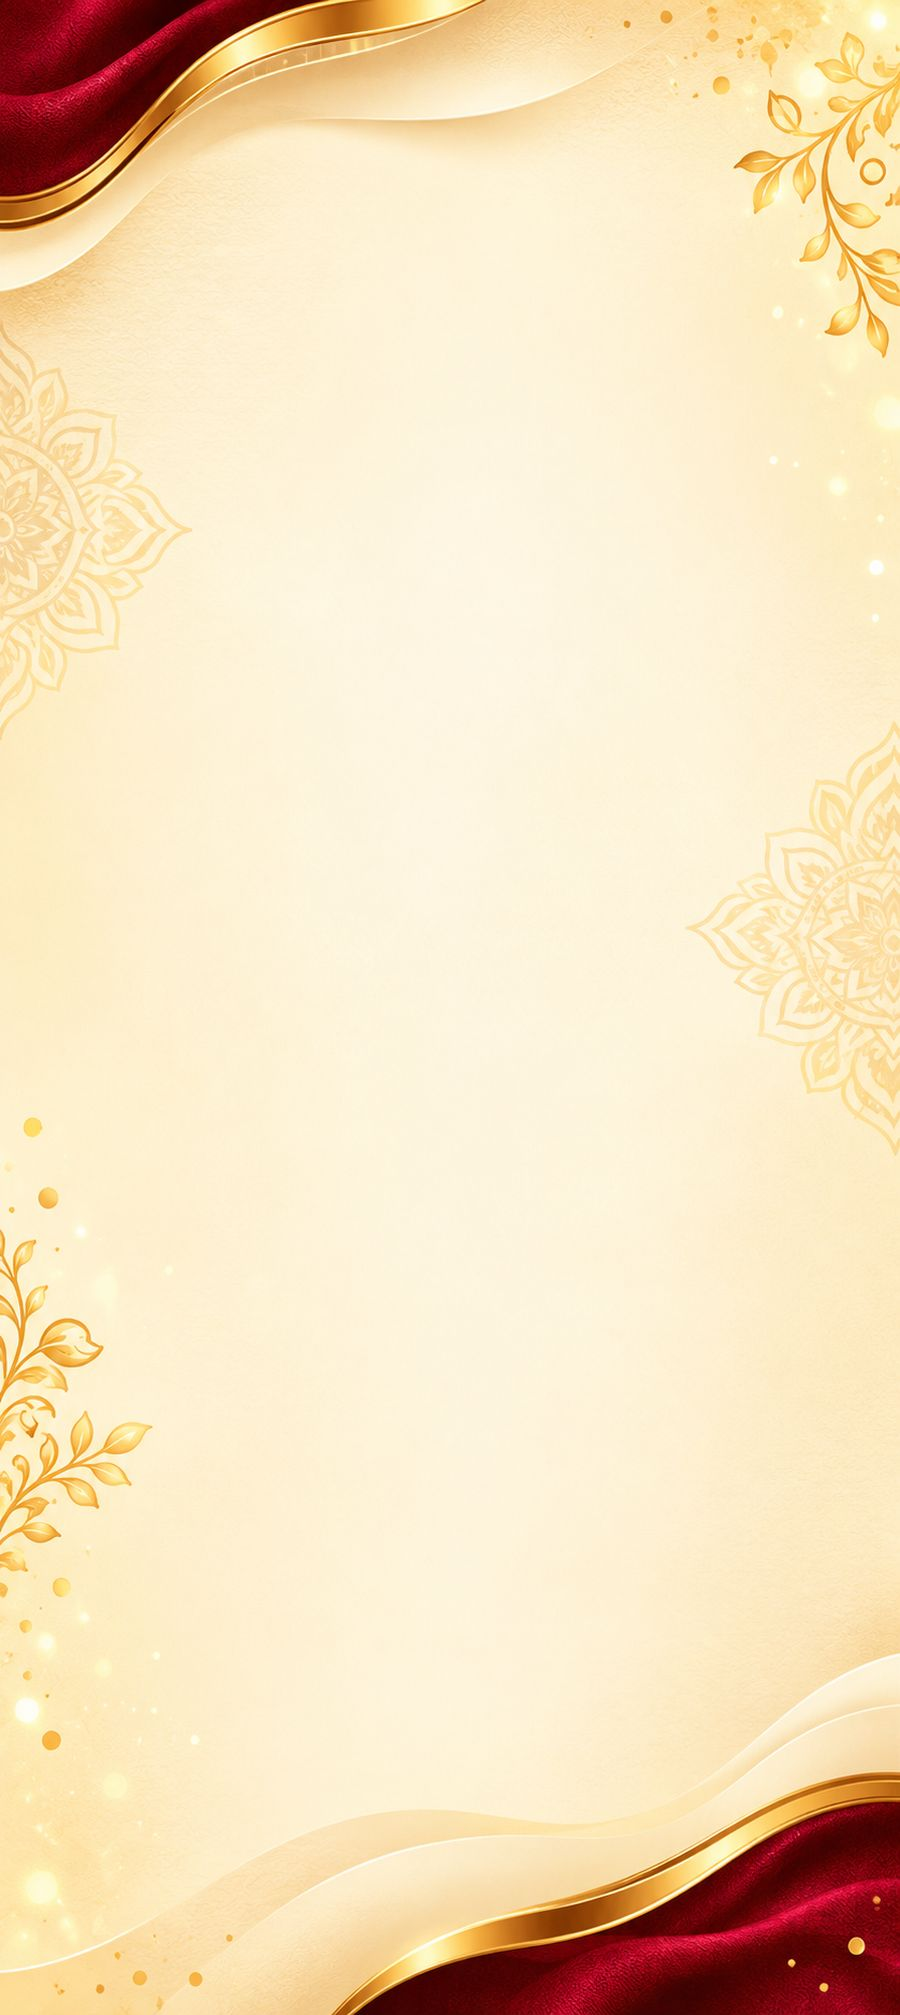
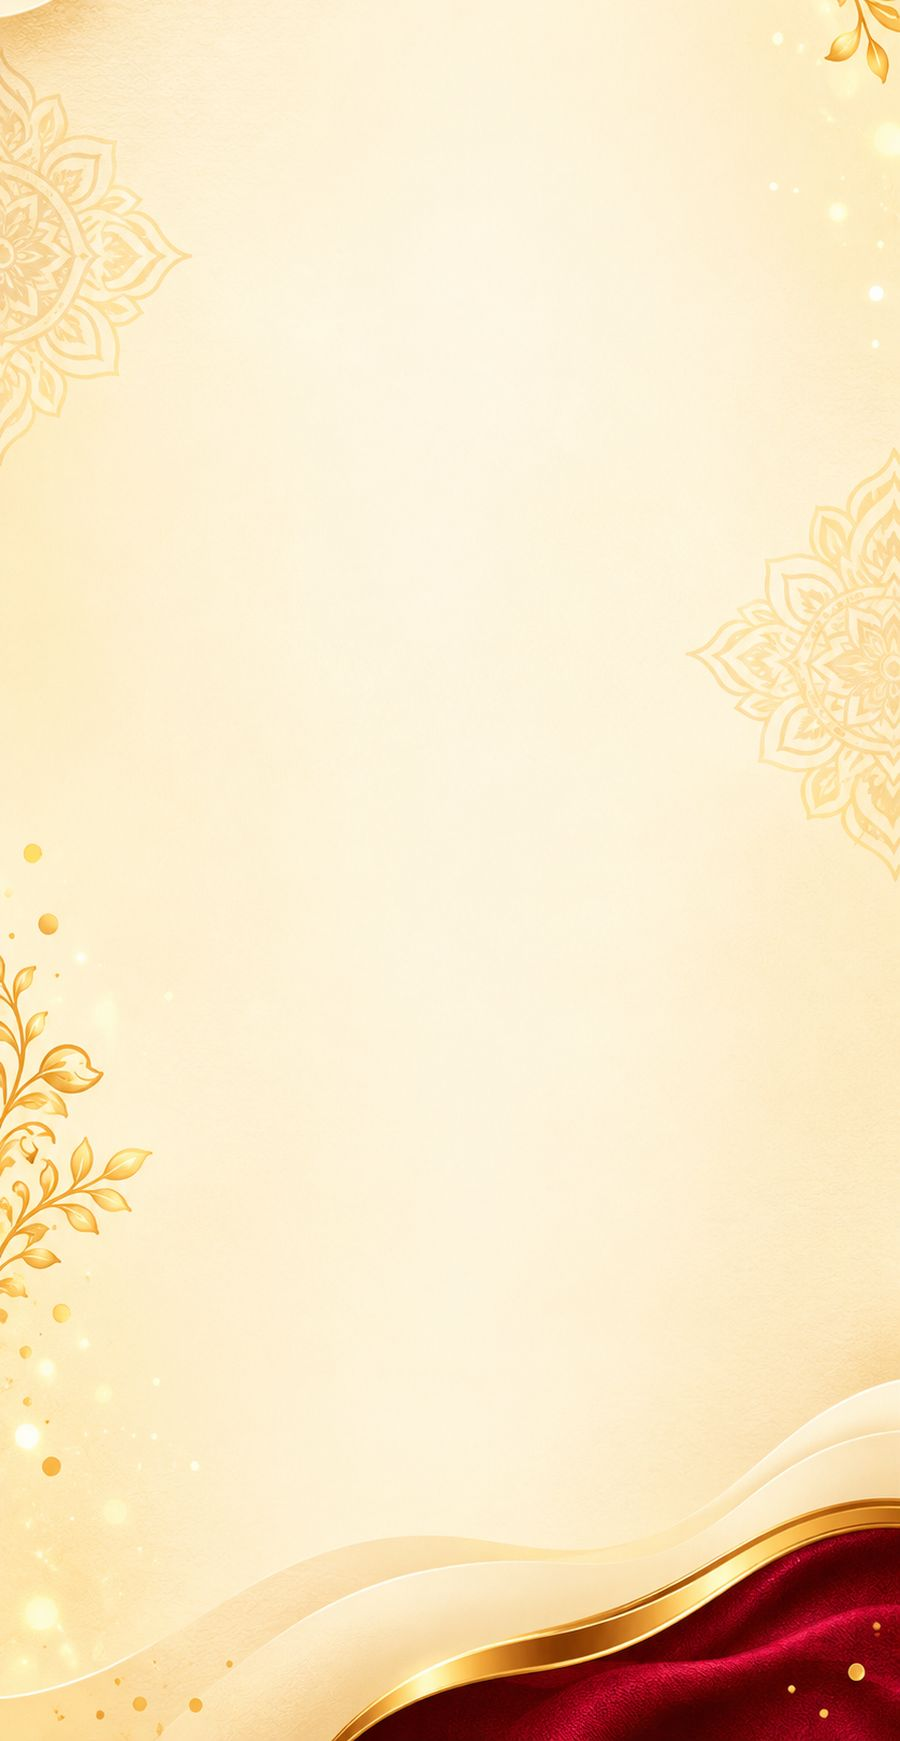
Native v0.9.13: crop the velvet ribbon off the top of the ivory background so page titles stay readable
Claude-Session: https://claude.ai/code/session_017gS3eFAtwPeHjR8LSjfxzY

diff --git a/native/lib/home.dart b/native/lib/home.dart
@@ -603,7 +603,7 @@ class SideMenu extends StatelessWidget {
             }, color: C.red),
           Padding(
             padding: const EdgeInsets.all(20),
-            child: Text('சுப்புலட்சுமி தங்க மாளிகை · புளியங்குடி\nApp v0.9.12', textAlign: TextAlign.center, style: sans(12, color: C.mute, height: 1.6)),
+            child: Text('சுப்புலட்சுமி தங்க மாளிகை · புளியங்குடி\nApp v0.9.13', textAlign: TextAlign.center, style: sans(12, color: C.mute, height: 1.6)),
           ),
         ]);
       }),
@@ -723,7 +723,7 @@ class ProfileTab extends StatelessWidget {
                 HapticFeedback.mediumImpact();
                 Navigator.of(context).push(MaterialPageRoute(builder: (_) => const DemoPassbookPage()));
               },
-              child: Center(child: Text('சுப்புலட்சுமி தங்க மாளிகை · புளியங்குடி\nApp v0.9.12', textAlign: TextAlign.center, style: sans(12, color: C.mute, height: 1.6))),
+              child: Center(child: Text('சுப்புலட்சுமி தங்க மாளிகை · புளியங்குடி\nApp v0.9.13', textAlign: TextAlign.center, style: sans(12, color: C.mute, height: 1.6))),
             ),
           ]),
         );
